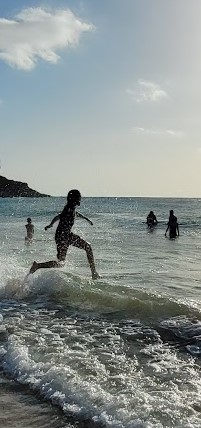
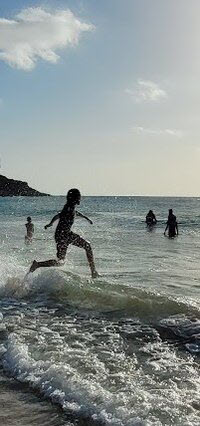
Adjusted image resolution & query width to fix horizontal scroll

diff --git a/index.html b/index.html
@@ -11,9 +11,9 @@
         <h1>The beach is fun!</h1>
 
         <picture>
-            <source media="(min-width: 1200px)" srcset="images/Leap-of-Faith.jpeg" />
-            <source media="(min-width: 600px)" srcset="images/Leap-of-Faith800.jpeg" />
-            <source media="(min-width: 300px)" srcset="images/Leap-of-Faith400.jpeg" />
+            <source media="(min-width: 1292px)" srcset="images/Leap-of-Faith.jpeg" />
+            <source media="(min-width: 800px)" srcset="images/Leap-of-Faith800.jpeg" />
+            <source media="(min-width: 400px)" srcset="images/Leap-of-Faith400.jpeg" />
             <img src="images/Leap-of-Faith200.jpeg" alt="Kids having fun at the beach" />
         </picture>
     </main>
